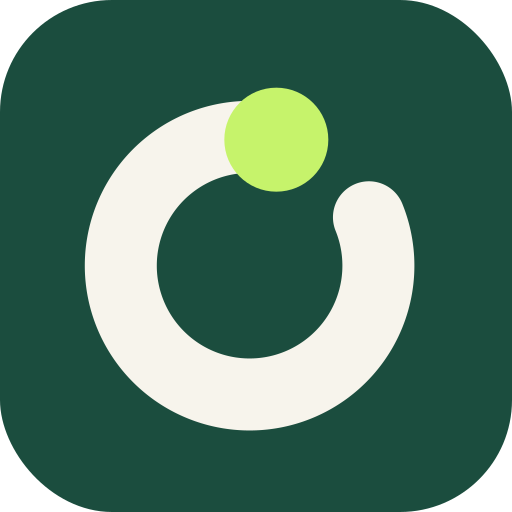
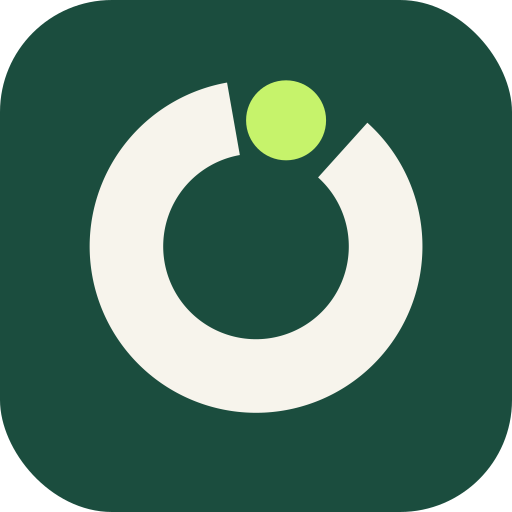
Redraw the mark as a filled band after two 16px critiques.
The stroked ring broke apart at favicon size and the wide gap read as a letter C. The gap is now 52 degrees, the lime dot sits in the opening, and the passes are written in docs/BRAND.md.

Changed region(s): [[0.1875, 0.1562, 0.8438, 0.625], [0.1562, 0.4375, 0.7812, 0.8438], [0.2812, 0.4062, 0.6562, 0.7188]]

diff --git a/dashboard/src/icons.jsx b/dashboard/src/icons.jsx
@@ -19,8 +19,8 @@ export function LogoMark({ tone = 'pine', size = 36 }) {
   return (
     <svg className="logo-mark" width={size} height={size} viewBox="0 0 32 32" aria-hidden="true">
       <rect width="32" height="32" rx="7" fill={pine ? '#1B4D3E' : '#F7F4EC'} />
-      <path d="M 23.06 13.58 A 8.05 8.05 0 1 1 17.27 8.73" fill="none" stroke={pine ? '#F7F4EC' : '#1B4D3E'} strokeWidth="4.5" strokeLinecap="round" />
-      <circle cx="17.27" cy="8.73" r="3.25" fill={pine ? '#C6F36B' : '#143D31'} />
+      <path d="M 22.96 7.67 A 10.40 10.40 0 1 1 14.19 5.16 L 14.99 9.69 A 5.80 5.80 0 1 0 19.88 11.09 Z" fill={pine ? '#F7F4EC' : '#1B4D3E'} />
+      <circle cx="17.88" cy="7.52" r="2.5" fill={pine ? '#C6F36B' : '#1A1814'} />
     </svg>
   );
 }

diff --git a/docs/BRAND.md b/docs/BRAND.md
@@ -6,16 +6,20 @@ The mark is an open ring. The gap is the limit you set. The lime dot rides the o
 
 ## Iterations
 
-1. A closed ring with a stem and a gold dot in the middle. At 16px it read as an exclamation point. That is an alarm, and it fights the product: the allowance is a limit you set, not a warning.
-2. A thin almost-complete ring with a small dot floating in the gap. The ring looked like a spinner, and the dot disappeared at 16px.
-3. A thick open ring, with the dot seated on the upper end of the stroke. The stroke and the dot both survive at 16px. This is the mark.
+Each pass was judged at 16px, then at full size, against four things: the mark has to stay legible at 16px, it has to be its own symbol, it has to sit in the pine palette, and it must not look like a stock icon.
+
+1. A closed ring, a stem, and a gold dot in the middle. At 16px it read as an exclamation point. That is an alarm. The product is a limit you set, not a warning. Rejected.
+2. A thin, almost complete ring with a small dot floating in the gap. The ring looked like a spinner, and the dot disappeared at 16px. The two parts did not belong to one shape. Rejected.
+3. A thick stroked ring with round caps and the lime dot seated on the upper end. At full size the idea was right. At 16px the right side of the ring broke into scattered pixels, the bottom turned into a cream slab, and the lime fused into the cream. It read as a blob, and the round caps made it a loading icon. Rejected.
+4. The ring became a filled band with flat radial cuts, thicker, and the gap opened to about a quarter of the circle so the dot could sit clear of the stroke. At 16px the band held together and the lime no longer melted into the cream. The opening was so wide that the mark read as a letter C with a badge on it, and the bottom of the band was heavier than the sides. Rejected.
+5. The gap narrowed to 52 degrees. The dot sits on the midline of the band, inside the opening, with pine between it and the cream. The ring is recentered so the sides and the bottom carry the same weight. The cuts stay flat, so the opening looks made, not like a round-cap spinner. The lime is only on the pine tile, where it contrasts. On the cream tile the dot is ink, because lime on cream does not. This is the mark.
 
 ## Palette
 
 | Role | Hex | Use |
 | --- | --- | --- |
 | Pine | `#1B4D3E` | Primary. App icon, hero, mark tile |
-| Pine ink | `#143D31` | The dot on a cream tile, selected text |
+| Pine ink | `#143D31` | Selected text |
 | Cream | `#F7F4EC` | Type on pine, the ring on the pine tile |
 | Page | `#ECE8DE` | Page background |
 | Ink | `#1A1814` | Text on cream |
@@ -34,7 +38,7 @@ Inter 400, 500, 600, and 700 for the interface. Outfit 600 and 700 for the wordm
 | File | Use |
 | --- | --- |
 | `dashboard/public/brand/mark.svg` | Pine tile, cream ring, lime dot. Header, loading, favicon source |
-| `dashboard/public/brand/mark-light.svg` | Cream tile, pine ring, pine dot. Light surfaces |
+| `dashboard/public/brand/mark-light.svg` | Cream tile, pine ring, ink dot. Light surfaces |
 | `dashboard/public/brand/mark-dark.svg` | Cream ring and lime dot, no tile. Dark surfaces |
 | `dashboard/public/brand/lockup-horizontal.svg` | Mark and the name on one line, for light pages |
 | `dashboard/public/brand/lockup-horizontal-dark.svg` | Same lockup, cream name, for dark pages |
@@ -46,7 +50,7 @@ Inter 400, 500, 600, and 700 for the interface. Outfit 600 and 700 for the wordm
 | `dashboard/public/brand/apple-touch-icon.png` | 180px PNG |
 | `dashboard/public/brand/app-icon-512.png` | 512px PNG |
 
-The wordmark is Outfit, drawn as paths, so it does not depend on a font being installed.
+The wordmark is Outfit, drawn as paths, so it does not depend on a font being installed. On the pine tile the dot is `#C6F36B`. On the cream tile the dot is ink `#1A1814`, because the lime accent does not hold on cream.
 
 Clear space on every side is the diameter of the lime dot. Do not close the ring, put a word inside it, or add a second accent. Do not set the mark smaller than 16px. Do not recolor the lime dot to red or amber.
 
